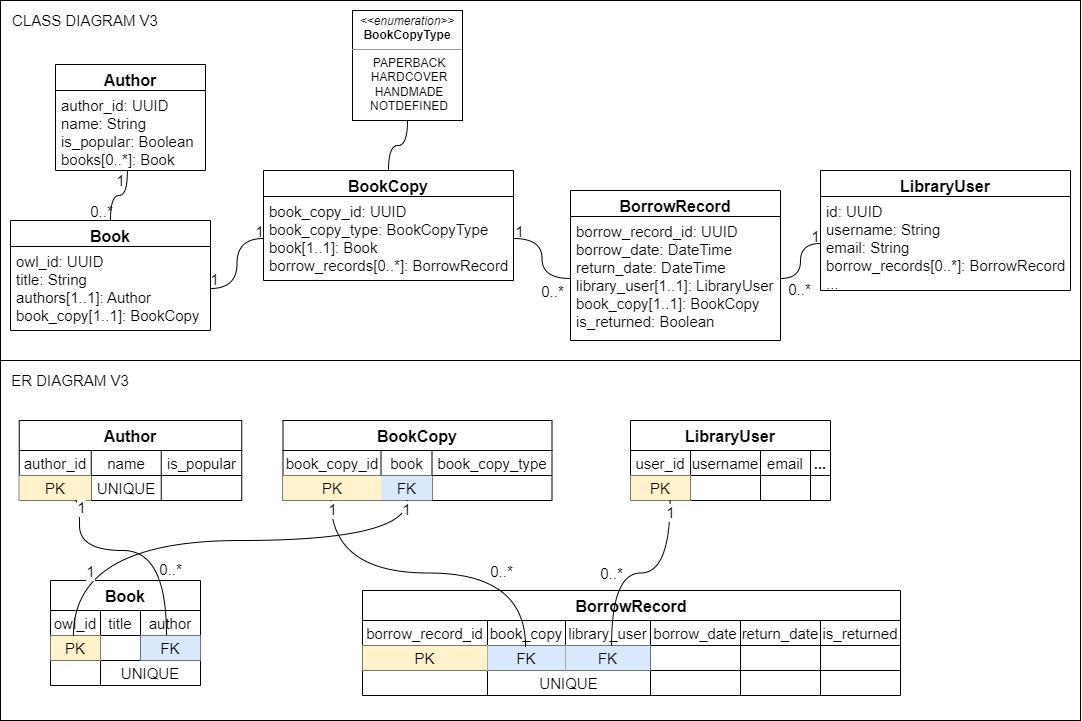
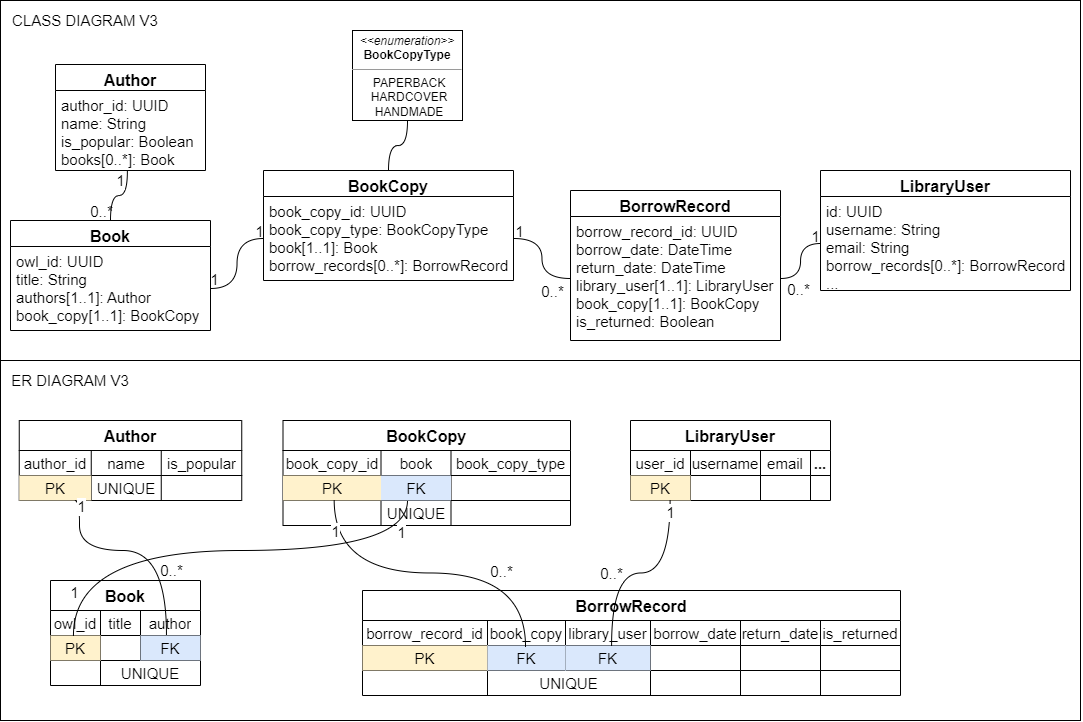
Add book-copy model functionality and associated tests

diff --git a/base_app/tests/test_models.py b/base_app/tests/test_models.py
@@ -220,6 +220,74 @@ class BookModelTest(TestCase):
         self.assertEqual(str(self.book), f'{self.book.title}')
 
 
+class BookCopyManagerTest(TestCase):
+    @classmethod
+    def setUpTestData(cls):
+        author_name = 'Greg Mckeown'
+        book_title = 'Effortless: Make It Easier to Do What Matters Most'
+        author = Author.objects.insert_author(author=
+                                              Author(name=author_name, is_popular=False))
+        cls.book = Book.objects.insert_book(book=Book(title=book_title, author=author))
+
+    def test_insert_book_copy_successful_insertion(self):
+        book_copy = BookCopy(book=self.book, book_copy_type=BookCopy.BOOK_COPY_TYPE.HARDCOVER)
+        inserted_book_copy = BookCopy.objects.insert_book_copy(book_copy=book_copy)
+        self.assertEqual(inserted_book_copy.book.owl_id, self.book.owl_id)
+
+    def test_insert_book_copy_raises_exception_for_missing_book(self):
+        book_copy = BookCopy(book=None, book_copy_type=BookCopy.BOOK_COPY_TYPE.PAPERBACK)
+        self.assertRaises(ObjectDoesNotExist, BookCopy.objects.insert_book_copy,
+                          book_copy=book_copy)
+
+    def test_insert_book_copy_raises_exception_for_invalid_book_copy_type(self):
+        book_copy = BookCopy(book=self.book, book_copy_type='')
+        self.assertRaises(ValidationError, BookCopy.objects.insert_book_copy,
+                          book_copy=book_copy)
+        book_copy = BookCopy(book=self.book, book_copy_type=None)
+        self.assertRaises(ValidationError, BookCopy.objects.insert_book_copy,
+                          book_copy=book_copy)
+
+    def test_get_book_copy_with_matching_owl_id_returns_valid_book_copy(self):
+        book_copy = BookCopy(book=self.book, book_copy_type=BookCopy.BOOK_COPY_TYPE.PAPERBACK)
+        search_owl_id = self.book.owl_id
+        BookCopy.objects.insert_book_copy(book_copy=book_copy)
+        search_result = BookCopy.objects.get_book_copy_with_matching_owl_id(owl_id=
+                                                                            search_owl_id)
+        self.assertEqual(search_result.book.owl_id, search_owl_id)
+
+    def test_get_book_copy_with_matching_owl_id_raises_exception_on_failed_search(self):
+        search_owl_id = uuid.uuid4()
+        self.assertRaises(ObjectDoesNotExist,
+                          BookCopy.objects.get_book_copy_with_matching_owl_id,
+                          owl_id=search_owl_id)
+
+    def test_update_book_copy_type_successful_updation(self):
+        book_copy = BookCopy(book=self.book, book_copy_type=BookCopy.BOOK_COPY_TYPE.PAPERBACK)
+        book_copy_id = BookCopy.objects.insert_book_copy(book_copy=book_copy).book_copy_id
+        new_book_copy_type = BookCopy.BOOK_COPY_TYPE.HARDCOVER
+        rows_affected = BookCopy.objects.update_book_copy_type \
+                                         (book_copy_id=book_copy_id,
+                                          new_book_copy_type=new_book_copy_type)
+        self.assertEqual(rows_affected, 1)
+
+    def test_update_book_copy_type_riases_exception_for_invalid_book_copy_type(self):
+        book_copy = BookCopy(book=self.book, book_copy_type=BookCopy.BOOK_COPY_TYPE.PAPERBACK)
+        book_copy_id = BookCopy.objects.insert_book_copy(book_copy=book_copy).book_copy_id
+        new_book_copy_type = ''
+        self.assertRaises(ValidationError, BookCopy.objects.update_book_copy_type,
+                          book_copy_id=book_copy_id,
+                          new_book_copy_type=new_book_copy_type)
+
+    def test_delete_book_copy_successful_deletion(self):
+        book_copy = BookCopy(book=self.book, book_copy_type=BookCopy.BOOK_COPY_TYPE.PAPERBACK)
+        book_copy_id = BookCopy.objects.insert_book_copy(book_copy=book_copy).book_copy_id
+        rows_affected = BookCopy.objects.delete_book_copy(book_copy_id=book_copy_id)
+        self.assertEqual(rows_affected, 1)
+
+    def test_delete_book_copy_raises_exception_for_invalid_book_copy_id(self):
+        self.assertRaises(ValidationError, BookCopy.objects.delete_book_copy, book_copy_id='')
+
+
 class BookCopyModelTest(TestCase):
     @classmethod
     def setUpTestData(cls) -> None:

diff --git a/base_app/models.py b/base_app/models.py
@@ -6,7 +6,7 @@ from django.core.exceptions import ObjectDoesNotExist, ValidationError
 from django.db import DatabaseError, models
 
 
-# This class handles all queries related to Author model
+# This model handles all queries related to Author model
 class AuthorManager(models.Manager):
     def insert_author(self, author):
         queryset = self.get_queryset()
@@ -105,7 +105,7 @@ class BookManager(models.Manager):
         return queryset.all()
 
     def update_book_title(self, owl_id, new_book_title):
-        if len(new_book_title) == 0:
+        if new_book_title == None or len(new_book_title) == 0:
             raise ValidationError('Cannot update book title with an empty string')
         queryset = self.get_queryset()
         rows_affected = queryset.filter(owl_id=owl_id).update(title=new_book_title)
@@ -122,6 +122,7 @@ class BookManager(models.Manager):
         return rows_affected
 
 
+# Abstract representation of a book
 class Book(models.Model):
     owl_id = models.UUIDField(primary_key=True, default=uuid.uuid4, editable=False)
     title = models.CharField(max_length=200)
@@ -136,29 +137,63 @@ class Book(models.Model):
         return f'{self.title}'
 
 
+class BookCopyManager(models.Manager):
+    def insert_book_copy(self, book_copy):
+        if book_copy.book_copy_type not in BookCopy.BOOK_COPY_TYPE:
+            raise ValidationError('Cannot insert BookCopy with invalid BOOK_COPY_TYPE')
+
+        queryset = self.get_queryset()
+        try:
+            return queryset.create(book=book_copy.book,
+                                   book_copy_type=book_copy.book_copy_type)
+        except ObjectDoesNotExist as e:
+            raise e
+
+    def get_book_copy_with_matching_owl_id(self, owl_id):
+        queryset = self.get_queryset()
+        try:
+            return queryset.filter(book__owl_id=owl_id).get()
+        except ObjectDoesNotExist as e:
+            raise e
+
+    def update_book_copy_type(self, book_copy_id, new_book_copy_type):
+        if new_book_copy_type not in BookCopy.BOOK_COPY_TYPE:
+            raise ValidationError('Cannot update BookCopy with invalid BOOK_COPY_TYPE')
+
+        queryset = self.get_queryset()
+        rows_affected = queryset.filter(book_copy_id=book_copy_id) \
+                                .update(book_copy_type= new_book_copy_type)
+        return rows_affected
+
+    def delete_book_copy(self, book_copy_id):
+        queryset = self.get_queryset()
+        rows_affected = queryset.filter(book_copy_id=book_copy_id).delete()[0]
+        return rows_affected
+
+
+# This model represents one or more physical/soft copy of a book present in library
 class BookCopy(models.Model):
     book_copy_id = models.UUIDField(primary_key=True, default=uuid.uuid4, editable=False)
-    book = models.ForeignKey('Book', on_delete=models.PROTECT)
+    # remove unique constraint and use ForeignKey to store more copies of the same book
+    book = models.OneToOneField('Book', on_delete=models.PROTECT, unique=True)
 
-    BOOK_COPY_TYPE = (
-        ('pb', 'PAPERBACK'),
-        ('hc', 'HARDCOVER'),
-        ('hm', 'HANDMADE'),
-        ('nd', 'NOTDEFINED')
-    )
+    class BOOK_COPY_TYPE(models.TextChoices):
+        PAPERBACK = 'pb', 'PAPERBACK'
+        HARDCOVER = 'hc', 'HARDCOVER'
+        HANDMADE = 'hm', 'HANDMADE'
 
     book_copy_type = models.CharField(
         max_length=2,
-        choices=BOOK_COPY_TYPE,
-        blank=True,
-        default='nd'
+        choices=BOOK_COPY_TYPE.choices
     )
+
+    objects = BookCopyManager()
 
     def __str__(self) -> str:
         return f'{self.book_copy_id} ({self.book})'
 
 
-# LibraryUser is a django User
+# LibraryUser model is actually a django User
 class LibraryUser(AbstractUser):
     pass
 
@@ -166,6 +201,7 @@ class LibraryUser(AbstractUser):
         return self.username
 
 
+# This model helps in maintaining relation between BookCopy and LibraryUser models 
 class BorrowRecord(models.Model):
     borrow_record_id = models.UUIDField(primary_key=True, default=uuid.uuid4, editable=False)
     borrow_date = models.DateTimeField()

diff --git a/base_app/migrations/0006_alter_bookcopy_book.py b/base_app/migrations/0006_alter_bookcopy_book.py
@@ -1,0 +1,19 @@
+# Generated by Django 4.1.5 on 2023-01-15 17:47
+
+from django.db import migrations, models
+import django.db.models.deletion
+
+
+class Migration(migrations.Migration):
+
+    dependencies = [
+        ('base_app', '0005_alter_bookcopy_book_copy_type'),
+    ]
+
+    operations = [
+        migrations.AlterField(
+            model_name='bookcopy',
+            name='book',
+            field=models.OneToOneField(on_delete=django.db.models.deletion.PROTECT, to='base_app.book'),
+        ),
+    ]

diff --git a/base_app/migrations/0004_alter_bookcopy_book_copy_type.py b/base_app/migrations/0004_alter_bookcopy_book_copy_type.py
@@ -1,0 +1,18 @@
+# Generated by Django 4.1.5 on 2023-01-15 17:33
+
+from django.db import migrations, models
+
+
+class Migration(migrations.Migration):
+
+    dependencies = [
+        ('base_app', '0003_alter_bookcopy_book_copy_type'),
+    ]
+
+    operations = [
+        migrations.AlterField(
+            model_name='bookcopy',
+            name='book_copy_type',
+            field=models.CharField(choices=[('pb', 'PAPERBACK'), ('hc', 'HARDCOVER'), ('hm', 'HANDMADEW')], max_length=2),
+        ),
+    ]

diff --git a/base_app/migrations/0005_alter_bookcopy_book_copy_type.py b/base_app/migrations/0005_alter_bookcopy_book_copy_type.py
@@ -1,0 +1,18 @@
+# Generated by Django 4.1.5 on 2023-01-15 17:33
+
+from django.db import migrations, models
+
+
+class Migration(migrations.Migration):
+
+    dependencies = [
+        ('base_app', '0004_alter_bookcopy_book_copy_type'),
+    ]
+
+    operations = [
+        migrations.AlterField(
+            model_name='bookcopy',
+            name='book_copy_type',
+            field=models.CharField(choices=[('pb', 'PAPERBACK'), ('hc', 'HARDCOVER'), ('hm', 'HANDMADE')], max_length=2),
+        ),
+    ]

diff --git a/base_app/migrations/0002_alter_bookcopy_book.py b/base_app/migrations/0002_alter_bookcopy_book.py
@@ -1,0 +1,19 @@
+# Generated by Django 4.1.5 on 2023-01-15 14:11
+
+from django.db import migrations, models
+import django.db.models.deletion
+
+
+class Migration(migrations.Migration):
+
+    dependencies = [
+        ('base_app', '0001_initial'),
+    ]
+
+    operations = [
+        migrations.AlterField(
+            model_name='bookcopy',
+            name='book',
+            field=models.ForeignKey(on_delete=django.db.models.deletion.PROTECT, to='base_app.book', unique=True),
+        ),
+    ]

diff --git a/base_app/migrations/0003_alter_bookcopy_book_copy_type.py b/base_app/migrations/0003_alter_bookcopy_book_copy_type.py
@@ -1,0 +1,18 @@
+# Generated by Django 4.1.5 on 2023-01-15 17:02
+
+from django.db import migrations, models
+
+
+class Migration(migrations.Migration):
+
+    dependencies = [
+        ('base_app', '0002_alter_bookcopy_book'),
+    ]
+
+    operations = [
+        migrations.AlterField(
+            model_name='bookcopy',
+            name='book_copy_type',
+            field=models.CharField(choices=[('pb', 'PAPERBACK'), ('hc', 'HARDCOVER'), ('hm', 'HANDMADE')], max_length=2),
+        ),
+    ]
